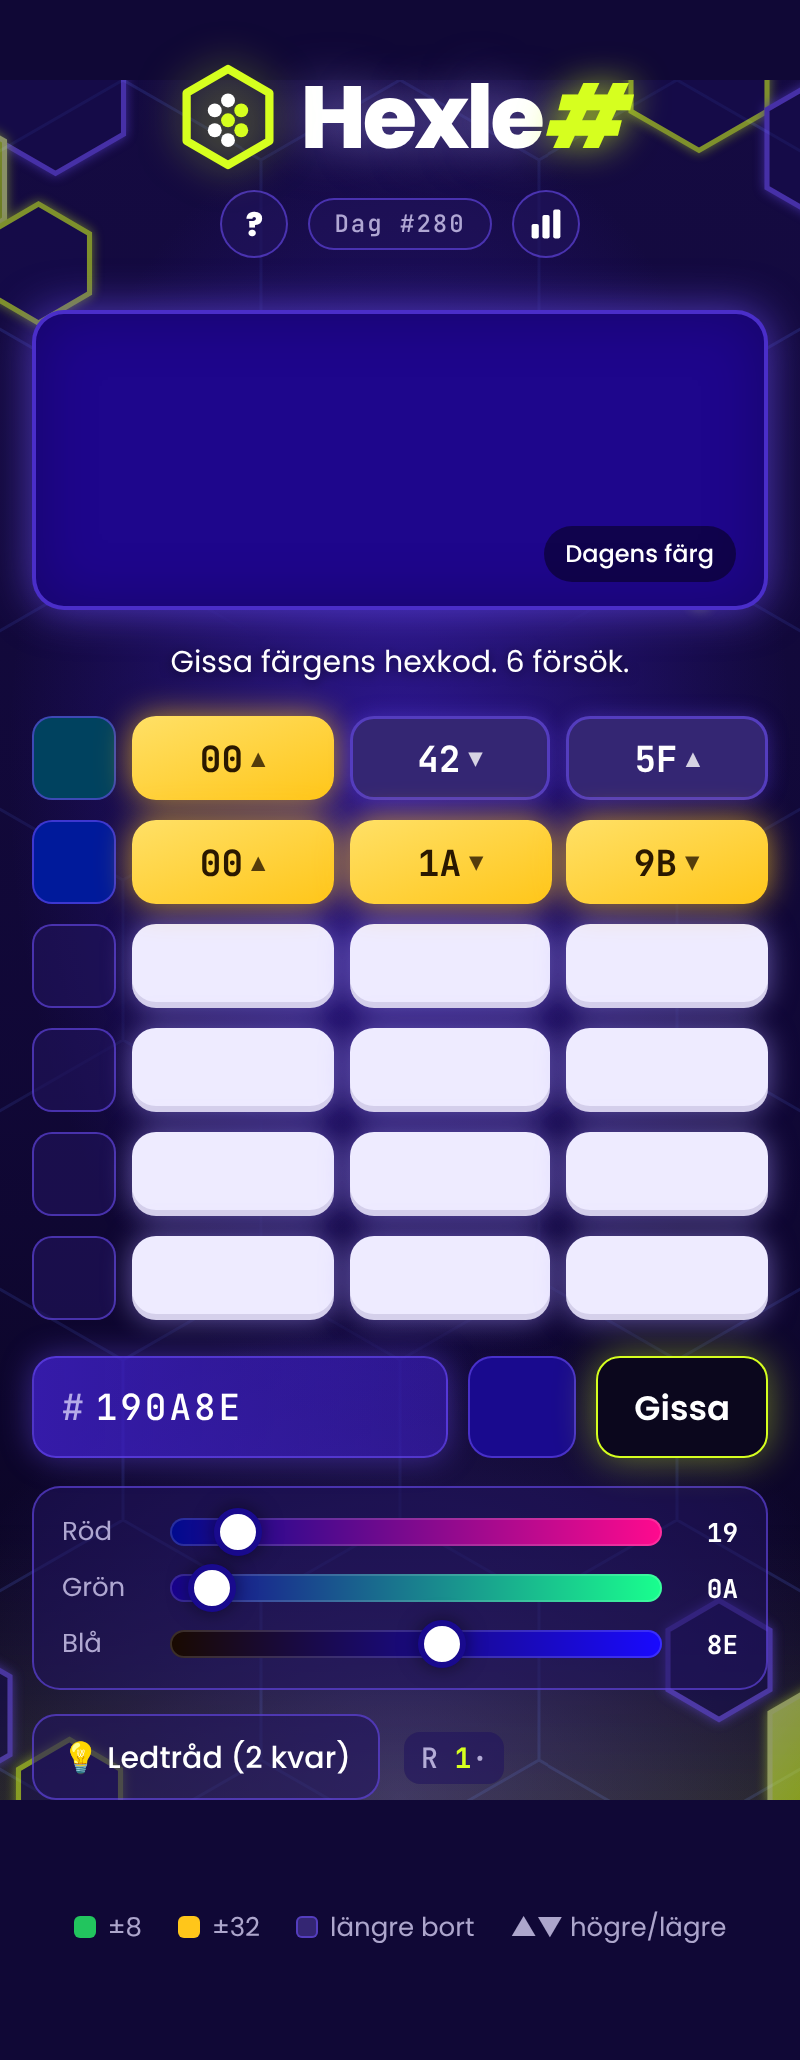
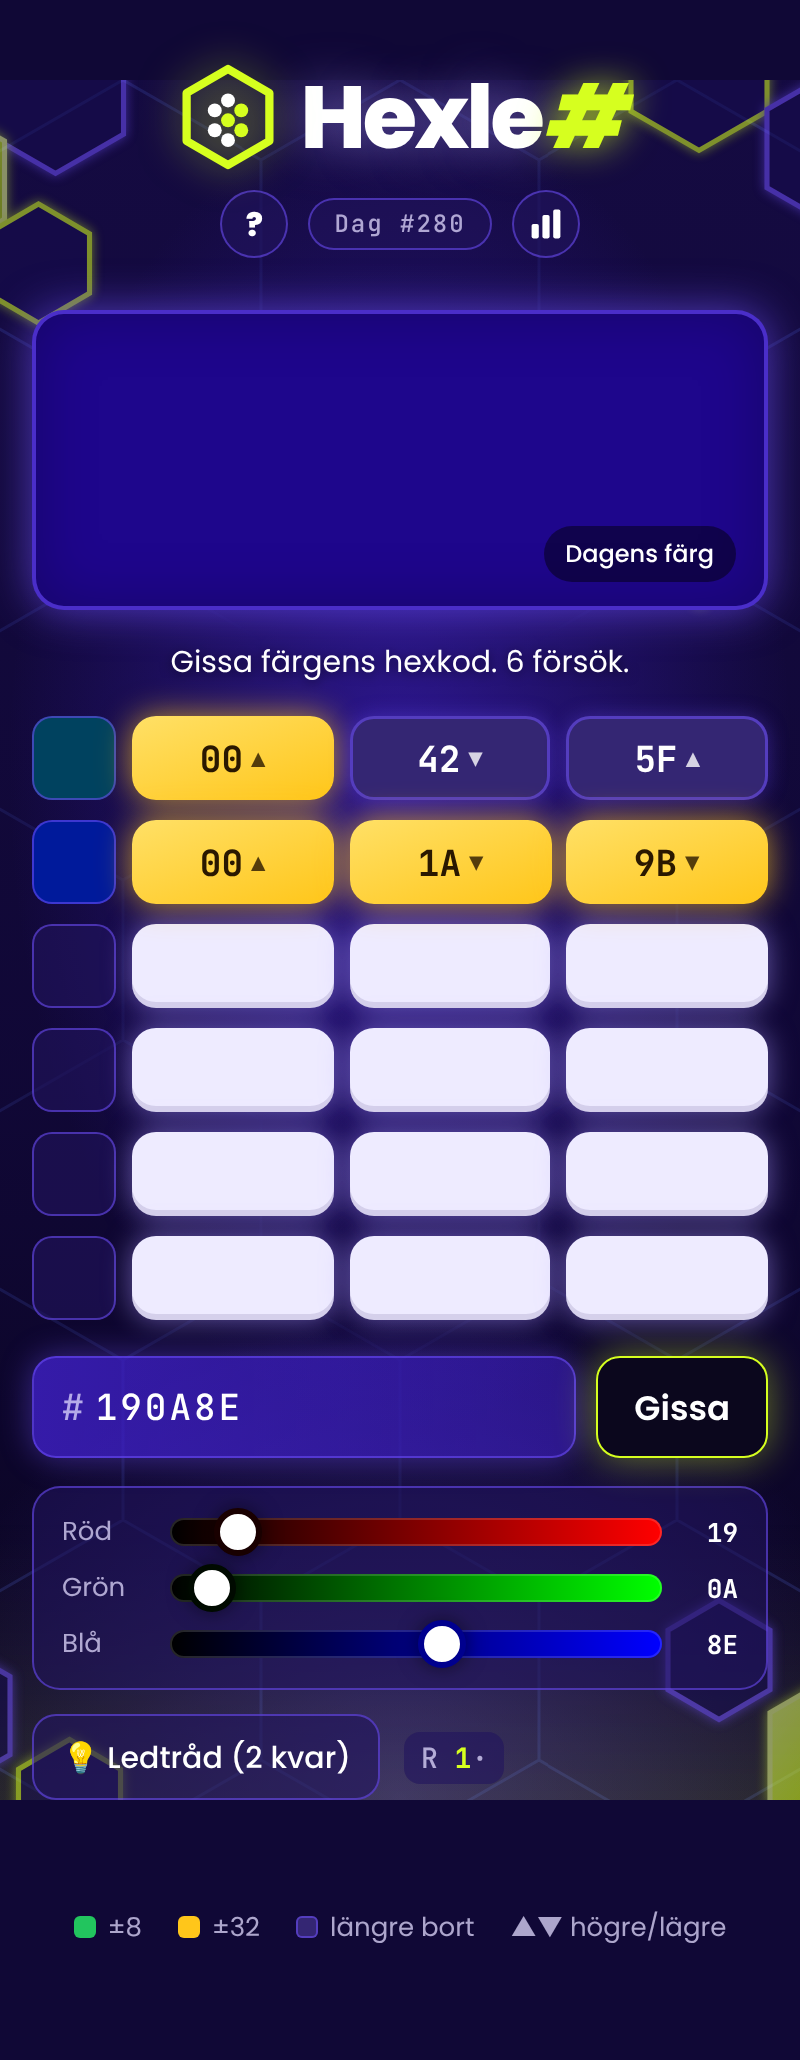
Remove live color preview so the guess can't be matched by eye
Sliders now show only their own channel (black to red/green/blue) and
the swatch next to the input is gone; the mixed color appears only in
the row after guessing.

Claude-Session: https://claude.ai/code/session_01K5MaAC7tDusxatCLWrAvMk

Changed region(s): [[0.2188, 0.6524, 0.8438, 0.8078]]

diff --git a/index.html b/index.html
@@ -123,7 +123,6 @@
     font-family: "JetBrains Mono", monospace; font-size: 18px; padding: 13px 6px; text-transform: uppercase; letter-spacing: 1.5px;
   }
   #guess::placeholder, .namebox input::placeholder { color: color-mix(in srgb, var(--pale) 55%, transparent); }
-  .preview { flex: 0 0 54px; border-radius: 12px; border: 1.5px solid var(--blue-line); background: color-mix(in srgb, var(--mid) 55%, transparent); }
   button {
     flex-shrink: 0; border-radius: 12px; padding: 0 26px; font: 600 17px Poppins, sans-serif; color: #fff; cursor: pointer;
     background: hsl(var(--h) 60% 7%); border: 1.5px solid color-mix(in srgb, var(--blue) 35%, transparent);
@@ -162,8 +161,11 @@
   .sliders b { font-family: "JetBrains Mono", monospace; color: var(--fg); text-align: right; }
   .sliders input[type=range] {
     -webkit-appearance: none; appearance: none; width: 100%; height: 14px; border-radius: 999px; margin: 0;
-    background: var(--track, #888); outline: none; box-shadow: inset 0 0 0 1px rgba(255, 255, 255, .15);
+    background: var(--track); outline: none; box-shadow: inset 0 0 0 1px rgba(255, 255, 255, .15);
   }
+  .sliders input[data-ch="0"] { --track: linear-gradient(90deg, #000, #f00); }
+  .sliders input[data-ch="1"] { --track: linear-gradient(90deg, #000, #0f0); }
+  .sliders input[data-ch="2"] { --track: linear-gradient(90deg, #000, #00f); }
   .sliders input[type=range]::-webkit-slider-thumb {
     -webkit-appearance: none; width: 24px; height: 24px; border-radius: 50%;
     background: #fff; border: 3px solid var(--thumb, #000); box-shadow: 0 0 10px rgba(0, 0, 0, .5); cursor: grab;
@@ -313,7 +315,6 @@
   <div id="play">
     <form id="form" autocomplete="off">
       <div class="input"><span>#</span><input id="guess" maxlength="6" placeholder="A1B2C3" spellcheck="false" autocapitalize="characters"></div>
-      <div class="preview" id="preview"></div>
       <button type="submit">Gissa</button>
     </form>
 
@@ -382,7 +383,7 @@
 
   <h3>Tips</h3>
   <ul>
-    <li>Använd <b>reglagen</b>: de skriver koden åt dig, så du kan matcha färgen med ögat.</li>
+    <li>Använd <b>reglagen</b> om du inte kan hex: de skriver koden åt dig. Färgen du blandat syns först när du gissat, så titta på dagens färg och fundera på hur mycket rött, grönt och blått den har.</li>
     <li>Ljus färg ger höga värden, mörk färg låga. Grå färger har tre lika värden.</li>
     <li>Fastnat? Tryck <b>💡 Ledtråd</b> för att se första tecknet i en kanal (högst 3).</li>
   </ul>
@@ -562,32 +563,27 @@ function confetti() {
 }
 
 // --- Inmatning: textfält och reglage hålls i synk ---
+// Reglagen visar bara sin egen kanal (svart → röd/grön/blå), aldrig den blandade färgen:
+// annars kan man matcha dagens färg med ögat utan att tänka.
 const sliders = [...document.querySelectorAll('#sliders input')];
 function current() { return sliders.map(s => +s.value); }
 function paintSliders() {
-  const c = current();
-  sliders.forEach((s, i) => {
-    const lo = [...c], hi = [...c];
-    lo[i] = 0; hi[i] = 255;
-    s.style.setProperty('--track', `linear-gradient(90deg, rgb(${lo}), rgb(${hi}))`);
-    s.style.setProperty('--thumb', `rgb(${c})`);
-    s.nextElementSibling.textContent = pair(c[i]);
+  current().forEach((v, i) => {
+    const c = [0, 0, 0];
+    c[i] = v;
+    sliders[i].style.setProperty('--thumb', `rgb(${c})`);
+    sliders[i].nextElementSibling.textContent = pair(v);
   });
-}
-function setPreview(value) {
-  $('preview').style.background = value.length === 6 ? '#' + value : '';
 }
 sliders.forEach(s => s.addEventListener('input', () => {
   startClock();
   const v = hex(current());
   $('guess').value = v;
-  setPreview(v);
   paintSliders();
 }));
 $('guess').addEventListener('input', e => {
   startClock();
   const v = e.target.value = e.target.value.replace(/[^0-9a-f]/gi, '').toUpperCase();
-  setPreview(v);
   if (v.length === 6) { [0, 2, 4].forEach((p, i) => sliders[i].value = parseInt(v.slice(p, p + 2), 16)); paintSliders(); }
 });
 
